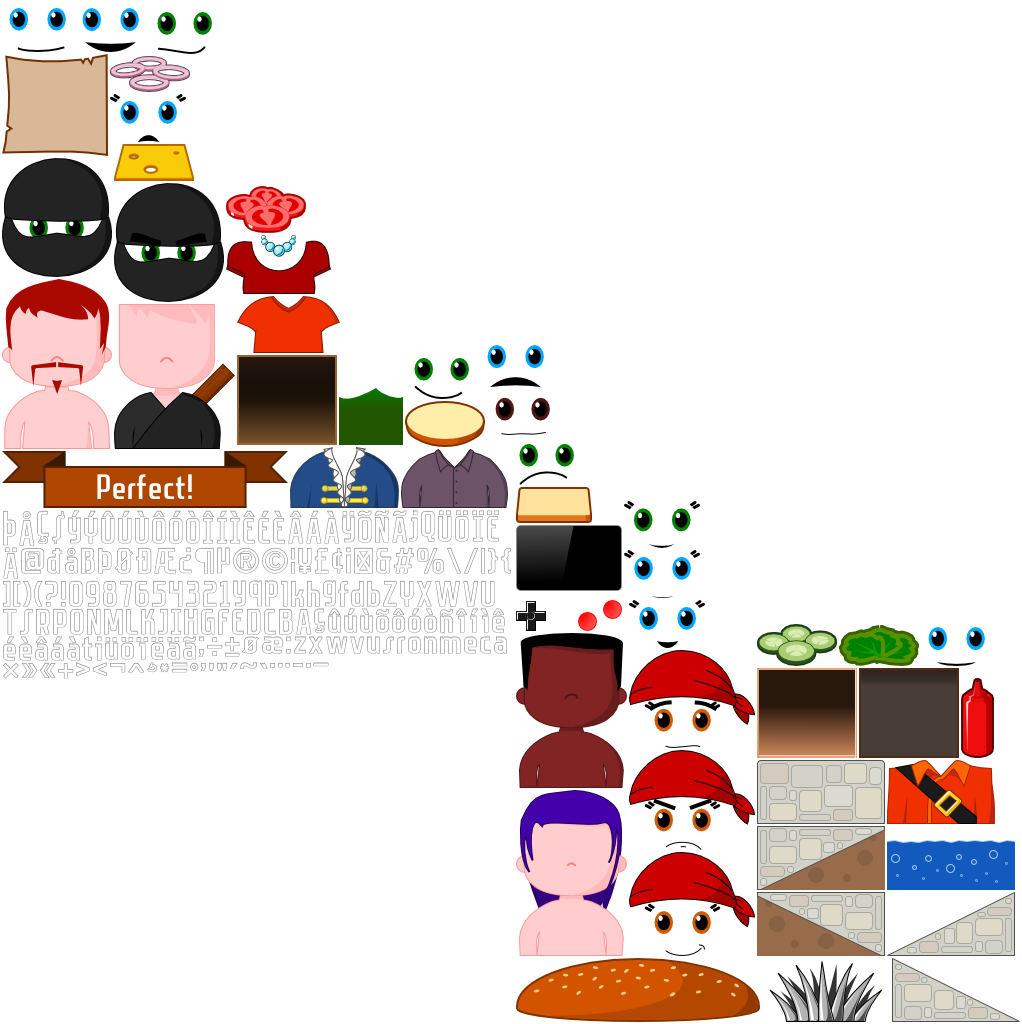
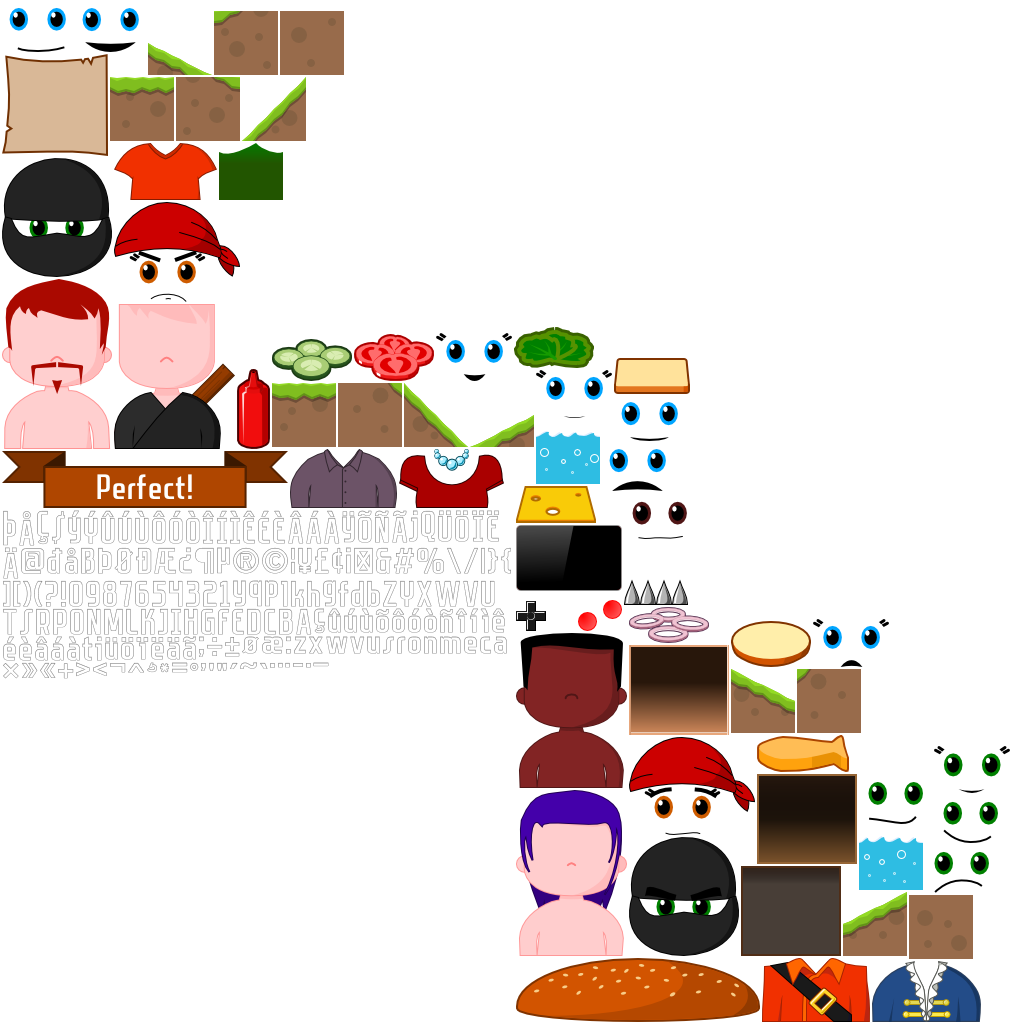
AirBurger: Integrate new tiles

diff --git a/burgerparty/src/com/agateau/burgerparty/burgercopter/GroundTileMap.java b/burgerparty/src/com/agateau/burgerparty/burgercopter/GroundTileMap.java
@@ -9,7 +9,7 @@ import com.badlogic.gdx.math.MathUtils;
 import com.badlogic.gdx.utils.Array;
 
 public class GroundTileMap extends TileMap {
-	private static final int MAX_FILL_SIZE = 6;
+	private static final int MAX_FILL_SIZE = 12;
 
 	public static final int NEUTRAL_TYPE_ID = 1;
 	public static final int FATAL_TYPE_ID = 2;
@@ -19,14 +19,16 @@ public class GroundTileMap extends TileMap {
 
 	public GroundTileMap(TextureAtlas atlas, int columnCount, int rowCount, int tileWidth, int tileHeight) {
 		super(columnCount, rowCount, tileWidth, tileHeight);
-		mGround = new Tile(atlas.findRegion("burgercopter/ground"), NEUTRAL_TYPE_ID);
-		mStone = new Tile(atlas.findRegion("burgercopter/stone"), NEUTRAL_TYPE_ID);
-		mStoneUpA = new Tile(atlas.findRegion("burgercopter/stone-up-a"), NEUTRAL_TYPE_ID);
-		mStoneUpB = new MaskedTile(atlas.findRegion("burgercopter/stone-up-b"), NEUTRAL_TYPE_ID);
-		mStoneDownA = new Tile(atlas.findRegion("burgercopter/stone-down-a"), NEUTRAL_TYPE_ID);
-		mStoneDownB = new MaskedTile(atlas.findRegion("burgercopter/stone-down-b"), NEUTRAL_TYPE_ID);
+		mGround = new Tile(atlas.findRegion("burgercopter/ground-1"), NEUTRAL_TYPE_ID);
+		mGrass = new Tile(atlas.findRegion("burgercopter/grass-1"), NEUTRAL_TYPE_ID);
+		mGrassUpA = new Tile(atlas.findRegion("burgercopter/grass-up-low-a"), NEUTRAL_TYPE_ID);
+		mGrassUpB = new MaskedTile(atlas.findRegion("burgercopter/grass-up-low-b"), NEUTRAL_TYPE_ID);
+		mGrassUpC = new MaskedTile(atlas.findRegion("burgercopter/grass-up-low-c"), NEUTRAL_TYPE_ID);
+		mGrassDownA = new Tile(atlas.findRegion("burgercopter/grass-down-low-a"), NEUTRAL_TYPE_ID);
+		mGrassDownB = new MaskedTile(atlas.findRegion("burgercopter/grass-down-low-b"), NEUTRAL_TYPE_ID);
+		mGrassDownC = new MaskedTile(atlas.findRegion("burgercopter/grass-down-low-c"), NEUTRAL_TYPE_ID);
 
-		mWater = new MaskedTile(atlas.findRegion("burgercopter/water"), FATAL_TYPE_ID);
+		mWater = new MaskedTile(atlas.findRegion("burgercopter/water-1"), FATAL_TYPE_ID);
 
 		mFirstFreeCol = 0;
 		mLastFreeCol = columnCount - 1;
@@ -85,7 +87,7 @@ public class GroundTileMap extends TileMap {
 				groundEnemyRequested.emit(mFirstFreeCol, mGroundLevel);
 			}
 			Array<Tile> column = advanceNextCol();
-			fillColumn(column, mStone);
+			fillColumn(column, mGrass);
 		}
 	}
 
@@ -95,7 +97,7 @@ public class GroundTileMap extends TileMap {
 			if (idx > 0 && idx < size - 1) {
 				fillColumn(column, mWater);
 			} else {
-				fillColumn(column, mStone);
+				fillColumn(column, mGrass);
 			}
 		}
 	}
@@ -104,15 +106,17 @@ public class GroundTileMap extends TileMap {
 		++mGroundLevel;
 		for (int idx = 0; idx < size; ++idx, ++mGroundLevel) {
 			Array<Tile> column = advanceNextCol();
-			fillColumn(column, mStoneUpA, mStoneUpB);
+			fillColumn(column, mGrassUpA, mGrassUpB);
+			column = advanceNextCol();
+			fillColumn(column, mGround, mGrassUpC);
 		}
 		--mGroundLevel;
 	}
 
 	private void fillDown(int size) {
 		for (int idx = 0; idx < size; ++idx, --mGroundLevel) {
-			Array<Tile> column = advanceNextCol();
-			fillColumn(column, mStoneDownA, mStoneDownB);
+			fillColumn(advanceNextCol(), mGround, mGrassDownC);
+			fillColumn(advanceNextCol(), mGrassDownA, mGrassDownB);
 		}
 	}
 
@@ -137,24 +141,30 @@ public class GroundTileMap extends TileMap {
 
 	private void fillVoid(Array<Tile> column, int row) {
 		int rowCount = getRowCount();
-		if (rowCount - row > 3 && MathUtils.randomBoolean(0.6f)) {
-			int col = mFirstFreeCol - 1;
-			if (col < 0) {
-				col = getColumnCount() - 1;
-			}
-			flyingEnemyRequested.emit(col, MathUtils.random(row + 1, rowCount - 1));
+		if (rowCount - row > 3 && MathUtils.randomBoolean(0.6f) && mFirstFreeCol % 1 == 0) {
+			addFlyingEnemy(row);
 		}
 		for (; row < rowCount; ++row) {
 			column.set(row, null);
 		}
 	}
 
+	private void addFlyingEnemy(int row) {
+		int col = mFirstFreeCol - 1;
+		if (col < 0) {
+			col = getColumnCount() - 1;
+		}
+		flyingEnemyRequested.emit(col, MathUtils.random(row + 1, getRowCount() - 1));
+	}
+
 	private final Tile mGround;
-	private final Tile mStone;
-	private final Tile mStoneUpA;
-	private final Tile mStoneUpB;
-	private final Tile mStoneDownA;
-	private final Tile mStoneDownB;
+	private final Tile mGrass;
+	private final Tile mGrassUpA;
+	private final Tile mGrassUpB;
+	private final Tile mGrassUpC;
+	private final Tile mGrassDownA;
+	private final Tile mGrassDownB;
+	private final Tile mGrassDownC;
 	private final Tile mWater;
 
 	private int mGroundLevel;

diff --git a/burgerparty/src/com/agateau/burgerparty/burgercopter/BurgerCopterMainScreen.java b/burgerparty/src/com/agateau/burgerparty/burgercopter/BurgerCopterMainScreen.java
@@ -29,7 +29,7 @@ public class BurgerCopterMainScreen extends StageScreen {
 	static final float PIXEL_PER_SECOND = 180;
 	static final float METERS_PER_SECOND = 4;
 	static final int TILE_SIZE = 32;
-	static final int GROUND_TILE_WIDTH = 128;
+	static final int GROUND_TILE_WIDTH = 64;
 	static final int GROUND_TILE_HEIGHT = 64;
 	static final int ENEMY_COUNT = 4;
 	private static final float FUEL_MID_LEVEL = 0.4f;
